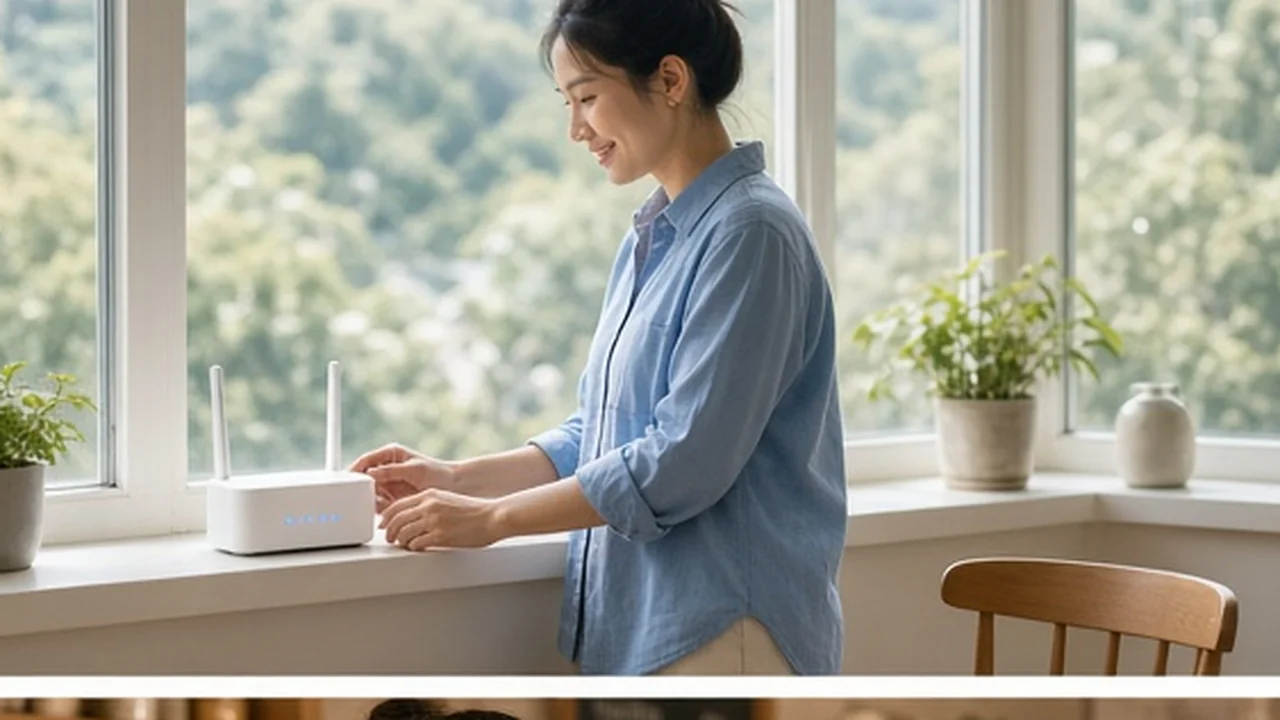
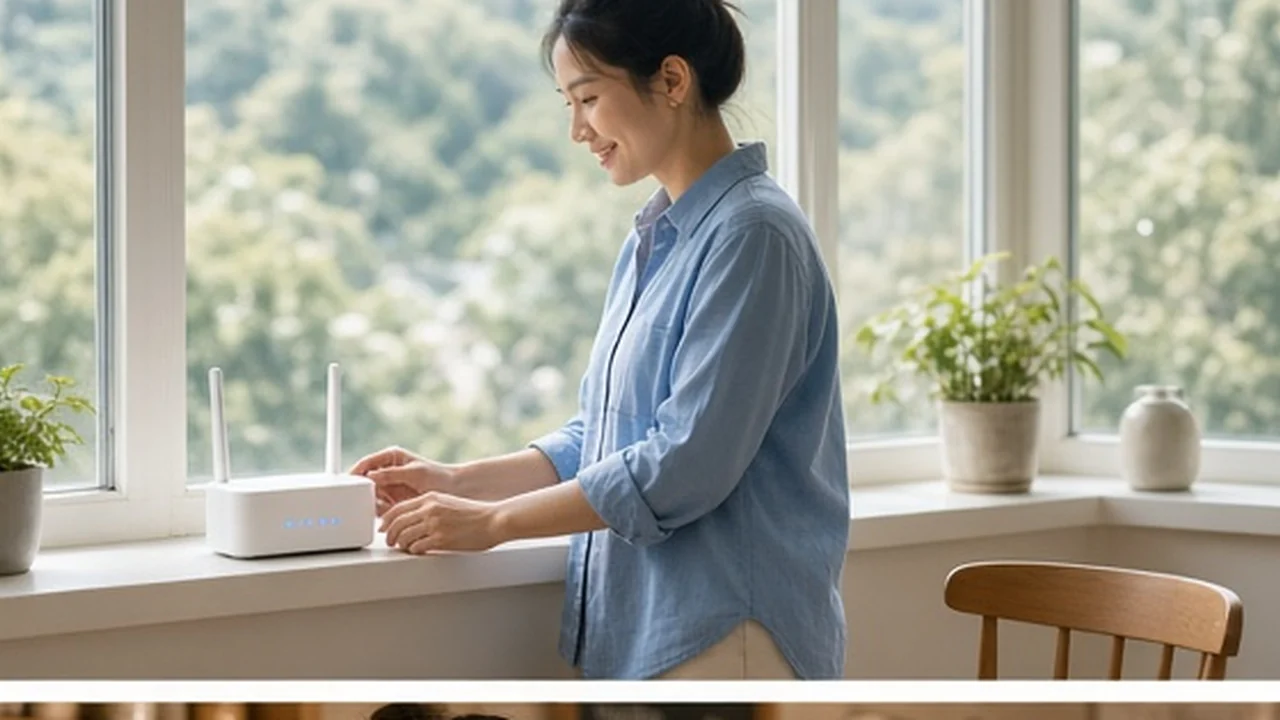
Swap category and guide topic photos and crop the card-strip seam. (#96)
Drop the supplied jpg/webp binaries in place, keep guide-choose untouched, and crop homepage/guide photo strips from the top so the inline-image baseline gap does not show as a white seam.

diff --git a/src/lib/guide-media.test.ts b/src/lib/guide-media.test.ts
@@ -53,8 +53,9 @@ describe("guide topic images", () => {
       assert.ok(image, slug);
       assert.equal(image.src, `/images/${TOPIC_FILE[slug]}.jpg`);
       assert.equal(image.webp, `/images/${TOPIC_FILE[slug]}.webp`);
-      assert.equal(image.width, 1280);
-      assert.equal(image.height, 720);
+      const [width, height] = slug === "fiber-vs-5g" ? [1280, 720] : [1200, 630];
+      assert.equal(image.width, width);
+      assert.equal(image.height, height);
       assert.equal(guideShareImagePath(slug), image.src);
       assert.ok(getGuide(slug), slug);
     }
@@ -69,11 +70,11 @@ describe("guide topic images", () => {
 
   it("ships compressed jpg + webp under public/images", () => {
     const assets = [
-      ["public/images/guide-port-in.jpg", 90_000],
+      ["public/images/guide-port-in.jpg", 95_000],
       ["public/images/guide-port-in.webp", 70_000],
-      ["public/images/guide-fiber.jpg", 110_000],
+      ["public/images/guide-fiber.jpg", 125_000],
       ["public/images/guide-fiber.webp", 70_000],
-      ["public/images/guide-village.jpg", 140_000],
+      ["public/images/guide-village.jpg", 155_000],
       ["public/images/guide-village.webp", 100_000],
       ["public/images/guide-choose.jpg", 100_000],
       ["public/images/guide-choose.webp", 70_000],
@@ -116,9 +117,12 @@ describe("guide topic images", () => {
     assert.match(page, /guideTopicImage\(guide\.slug\)/);
     assert.match(page, /property:\s*"og:image"/);
     assert.match(page, /name:\s*"twitter:image"/);
-    assert.match(page, /<picture>/);
+    assert.match(page, /photo-strip mt-6/);
     assert.match(page, /type="image\/webp"/);
     assert.match(page, /loading="lazy"/);
+    const css = src("../styles.css");
+    assert.match(css, /\.photo-strip img\s*\{[^}]*object-position:\s*top/);
+    assert.match(src("../routes/guides.tsx"), /photo-strip photo-strip-tile/);
     assert.doesNotMatch(page, /guide-home5g|guide-mobile|guide-business/);
   });
 

diff --git a/src/lib/home-perf.test.ts b/src/lib/home-perf.test.ts
@@ -32,6 +32,12 @@ describe("homepage first-load images", () => {
     assert.match(home, /srcSet=\{item\.webp\}/);
     assert.match(home, /loading="lazy"/);
     assert.match(home, /webp: "\/images\/cat-broadband\.webp"/);
+    assert.match(home, /photo-strip photo-strip-card/);
+    assert.doesNotMatch(home, /aspect-\[16\/10\]/);
+    const css = src("../styles.css");
+    assert.match(css, /\.photo-strip\s*\{[^}]*display:\s*block/);
+    assert.match(css, /\.photo-strip img\s*\{[^}]*object-position:\s*top/);
+    assert.match(css, /\.photo-strip-card img\s*\{[^}]*aspect-ratio:\s*16\s*\/\s*11/);
     assert.match(src("../components/provider-mark.tsx"), /loading="lazy"/);
     assert.match(src("../components/provider-mark.tsx"), /hkbn\.webp/);
 
@@ -39,13 +45,13 @@ describe("homepage first-load images", () => {
       ["public/images/hero-home.jpg", 90_000],
       ["public/images/hero-home.webp", 70_000],
       ["public/images/hero-home-768.webp", 35_000],
-      ["public/images/cat-broadband.jpg", 110_000],
+      ["public/images/cat-broadband.jpg", 140_000],
       ["public/images/cat-broadband.webp", 70_000],
-      ["public/images/cat-home5g.jpg", 100_000],
+      ["public/images/cat-home5g.jpg", 130_000],
       ["public/images/cat-home5g.webp", 65_000],
-      ["public/images/cat-mobile.jpg", 110_000],
+      ["public/images/cat-mobile.jpg", 145_000],
       ["public/images/cat-mobile.webp", 75_000],
-      ["public/images/cat-business.jpg", 100_000],
+      ["public/images/cat-business.jpg", 130_000],
       ["public/images/cat-business.webp", 65_000],
     ] as const;
 

diff --git a/src/lib/guide-media.ts b/src/lib/guide-media.ts
@@ -19,8 +19,8 @@ export const GUIDE_TOPIC_IMAGES: Record<GuideTopicImageSlug, GuideTopicImage> = 
     slug: "port-in",
     src: "/images/guide-port-in.jpg",
     webp: "/images/guide-port-in.webp",
-    width: 1280,
-    height: 720,
+    width: 1200,
+    height: 630,
     alt: "暖色客廳：男士喺木枱前同時睇兩部手機，旁邊放住白色路由器",
     altEn: "Warm living-room scene: a man at a wooden table looking at two phones, with a white router beside him",
   },
@@ -28,8 +28,8 @@ export const GUIDE_TOPIC_IMAGES: Record<GuideTopicImageSlug, GuideTopicImage> = 
     slug: "fiber",
     src: "/images/guide-fiber.jpg",
     webp: "/images/guide-fiber.webp",
-    width: 1280,
-    height: 720,
+    width: 1200,
+    height: 630,
     alt: "暖色客廳：一對伴侶坐喺梳化上各自拿住手機，旁邊有白色路由器",
     altEn: "Warm living-room scene: a couple on a sofa each holding a phone, with a white router nearby",
   },
@@ -37,8 +37,8 @@ export const GUIDE_TOPIC_IMAGES: Record<GuideTopicImageSlug, GuideTopicImage> = 
     slug: "village",
     src: "/images/guide-village.jpg",
     webp: "/images/guide-village.webp",
-    width: 1280,
-    height: 720,
+    width: 1200,
+    height: 630,
     alt: "村屋小巷：女士企喺白牆黑瓦屋前面睇手機",
     altEn: "Village lane scene: a woman standing among tiled-roof houses looking at a phone",
   },

diff --git a/src/routes/guides.tsx b/src/routes/guides.tsx
@@ -73,7 +73,7 @@ function GuidesPage() {
               className="flex h-full flex-col overflow-hidden rounded-xl bg-card shadow-[var(--shadow-border)] transition-[box-shadow] duration-150 hover:shadow-[var(--shadow-border-hover)]"
             >
               <Link to="/guides/$slug" params={{ slug: cat.slug }} className="group flex min-h-11 flex-1 flex-col">
-                <picture>
+                <picture className="photo-strip photo-strip-tile">
                   <source srcSet={cat.image.replace(/\.jpg$/, ".webp")} type="image/webp" />
                   <img
                     src={cat.image}
@@ -82,7 +82,7 @@ function GuidesPage() {
                     height={600}
                     loading="lazy"
                     decoding="async"
-                    className="h-36 w-full object-cover outline outline-1 -outline-offset-1 outline-fg/10"
+                    className="outline outline-1 -outline-offset-1 outline-fg/10"
                   />
                 </picture>
                 <div className="flex flex-1 flex-col p-4">

diff --git a/src/routes/index.tsx b/src/routes/index.tsx
@@ -164,7 +164,7 @@ function Home() {
               className="flex h-full flex-col overflow-hidden rounded-lg border border-border bg-card shadow-[var(--shadow-home-tile)]"
             >
               <Link to={item.to} params={{ slug: item.slug }} className="group flex min-h-0 flex-1 flex-col">
-                <picture>
+                <picture className="photo-strip photo-strip-card">
                   <source srcSet={item.webp} type="image/webp" />
                   <img
                     src={item.src}
@@ -173,7 +173,7 @@ function Home() {
                     height={600}
                     loading="lazy"
                     decoding="async"
-                    className="aspect-[16/10] h-auto w-full object-cover outline outline-1 -outline-offset-1 outline-fg/10"
+                    className="outline outline-1 -outline-offset-1 outline-fg/10"
                   />
                 </picture>
                 <div className="flex flex-1 flex-col gap-1.5 p-3 pb-2 sm:p-3.5">

diff --git a/src/routes/guides_.$slug.tsx b/src/routes/guides_.$slug.tsx
@@ -171,7 +171,7 @@ function GuidePage() {
       <h1 className="mt-2 text-title font-semibold">{copy.h1}</h1>
       <p className="mt-3 text-base leading-relaxed text-muted">{copy.excerpt}</p>
       {topicImage ? (
-        <picture>
+        <picture className="photo-strip mt-6">
           <source srcSet={topicImage.webp} type="image/webp" />
           <img
             src={topicImage.src}
@@ -180,7 +180,7 @@ function GuidePage() {
             height={topicImage.height}
             loading="lazy"
             decoding="async"
-            className="mt-6 w-full rounded-xl object-cover outline outline-1 -outline-offset-1 outline-fg/10"
+            className="rounded-xl outline outline-1 -outline-offset-1 outline-fg/10"
           />
         </picture>
       ) : null}

diff --git a/src/styles.css b/src/styles.css
@@ -234,6 +234,25 @@
 }
 
 @layer components {
+  /* Card / topic photos: kill the inline <img> baseline seam; crop from the top. */
+  .photo-strip {
+    display: block;
+    line-height: 0;
+  }
+  .photo-strip img {
+    display: block;
+    width: 100%;
+    object-fit: cover;
+    object-position: top;
+  }
+  .photo-strip-card img {
+    aspect-ratio: 16 / 11;
+    height: auto;
+  }
+  .photo-strip-tile img {
+    height: 10.5rem;
+  }
+
   section.estate-dir-group {
     content-visibility: auto;
     contain-intrinsic-size: auto 320px;
